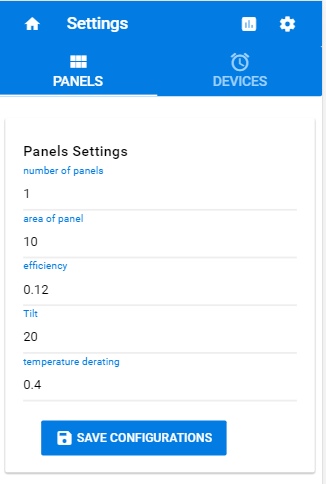
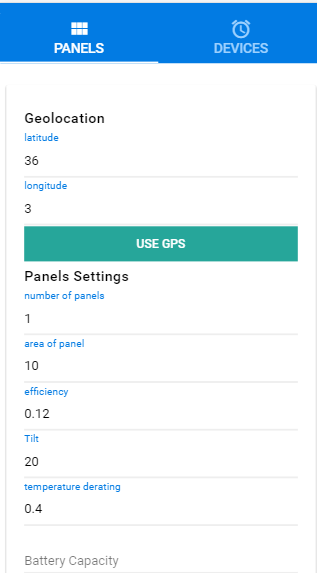
configure location

Changed region(s): [[0.0, 0.0, 1.0, 1.0]]

diff --git a/src/components/ConfigPanels.vue b/src/components/ConfigPanels.vue
@@ -2,35 +2,52 @@
   <!-- configurations form -->
   <div class="layout-padding">
     <form class="card">
-      
+      <h6> Geolocation </h6>
+      <div class="floating-label">
+        <input required class="full-width" v-model.number="newConfigs.latitude">
+        <label>latitude</label>
+      </div>
+
+      <div class="floating-label">
+        <input required class="full-width" v-model.number="newConfigs.longitude">
+        <label>longitude</label>
+      </div>
+
+      <button @click.prevent="loadCordinates" class="secondary full-width">Use GPS</button>
+
       <h6>Panels Settings</h6>
 
       <div class="floating-label">
-        <input required class="full-width" :value="config.panels.number" @input="updateNumber">
+        <input required class="full-width" v-model.number="newConfigs.number">
         <label>number of panels</label>
       </div>
 
       <div class="floating-label">
-        <input required class="full-width" :value="config.panels.area" @input="updateArea">
+        <input required class="full-width" v-model.number="newConfigs.area">
         <label>area of panel</label>
       </div>
 
       <div class="floating-label">
-        <input required class="full-width" :value="config.panels.efficiency" @input="updateEfficiency">
+        <input required class="full-width" v-model.number="newConfigs.efficiency">
         <label>efficiency</label>
       </div>
 
       <div class="floating-label">
-        <input required class="full-width" :value="config.panels.tilt" @input="updateTilt">
+        <input required class="full-width" v-model.number="newConfigs.tilt">
         <label>Tilt</label>
       </div>
 
       <div class="floating-label">
-        <input required class="full-width" :value="config.panels.temperatureDerating" @input="updateTemperatureDerating">
+        <input required class="full-width" v-model.number="newConfigs.temperatureDerating">
         <label>temperature derating</label>
       </div>
 
-      <button class="primary" @click="savePanelsConfigs">
+      <div class="floating-label">
+        <input required class="full-width" v-model.number="newConfigs.battery">
+        <label>Battery Capacity</label>
+      </div>
+
+      <button class="primary full-width" @click="savePanelsConfigs">
         <i>save</i>
         save configurations
       </button>
@@ -43,7 +60,21 @@
   export default {
     data () {
       return {
-        newConfigs: {}
+        newConfigs: {
+          latitude: null,
+          longitude: null,
+          number: null,
+          area: null,
+          efficiency: null,
+          tilt: null,
+          temperatureDerating: null
+        }
+      }
+    },
+    mounted () {
+      let initConfig = this.$store.getters.getConfig.panels
+      for (let key in this.newConfigs) {
+        this.newConfigs[key] = initConfig[key]
       }
     },
     computed: {
@@ -52,24 +83,12 @@
       }
     },
     methods: {
-      updateNumber (e) {
-        this.newConfigs.number = Number(e.target.value)
-      },
-      updateArea (e) {
-        this.newConfigs.area = Number(e.target.value)
-      },
-      updateEfficiency (e) {
-        this.newConfigs.efficiency = Number(e.target.value)
-      },
-      updateTilt (e) {
-        this.newConfigs.tilt = Number(e.target.value)
-      },
-      updateTemperatureDerating (e) {
-        this.newConfigs.temperatureDerating = Number(e.target.value)
+      loadCordinates () {
+        alert('not implemented yet')
       },
       savePanelsConfigs () {
         this.$store.commit('savePanelsConfigs', this.newConfigs)
-      }
+    }
     }
   }
 </script>

diff --git a/src/store.js b/src/store.js
@@ -107,11 +107,14 @@ export const store = new Vuex.Store({
     offlineMode: true,
     config: {
       panels: {
+        latitude: 36,
+        longitude: 3,
         number: 1,
         area: 10,
         efficiency: 0.12,
         tilt: 20,
-        temperatureDerating: 0.4
+        temperatureDerating: 0.4,
+        battery: 500000
       }
     },
     deviceIdCounter: 5,
@@ -151,13 +154,14 @@ export const store = new Vuex.Store({
     }
   },
   actions: {
-    fetchForecastData ({ commit }) {
+    fetchForecastData ({ commit, getters }) {
       const API_KEY = 'L_iCwLk31524KiFmetydhO6gHV6UUI68'
 
+      let { latitude, longitude } = getters.getConfig.panels
       axios.get(
         'https://api.solcast.com.au/radiation/forecasts?' +
-        'longitude=' + 3 +
-        '&latitude=' + 36 +
+        'longitude=' + longitude +
+        '&latitude=' + latitude +
         '&api_key=' + API_KEY +
         '&format=json'
         )
